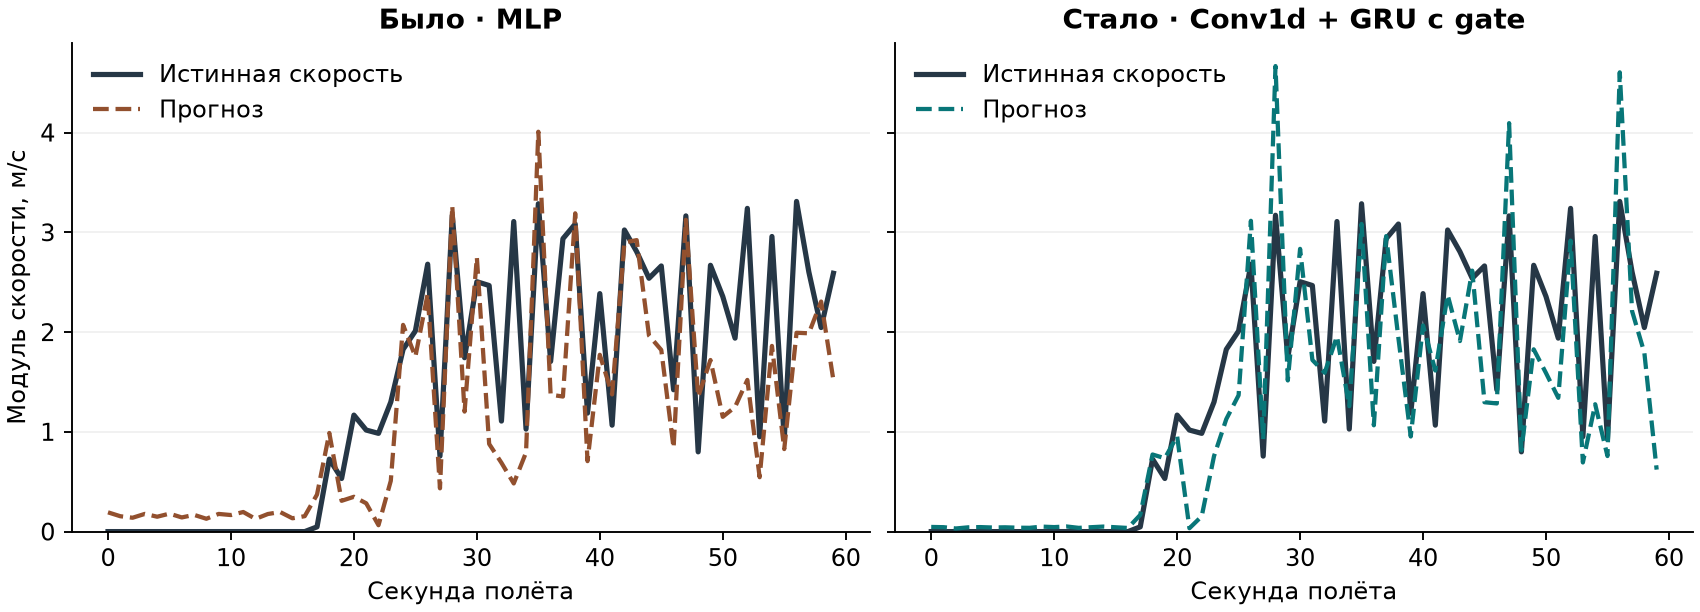
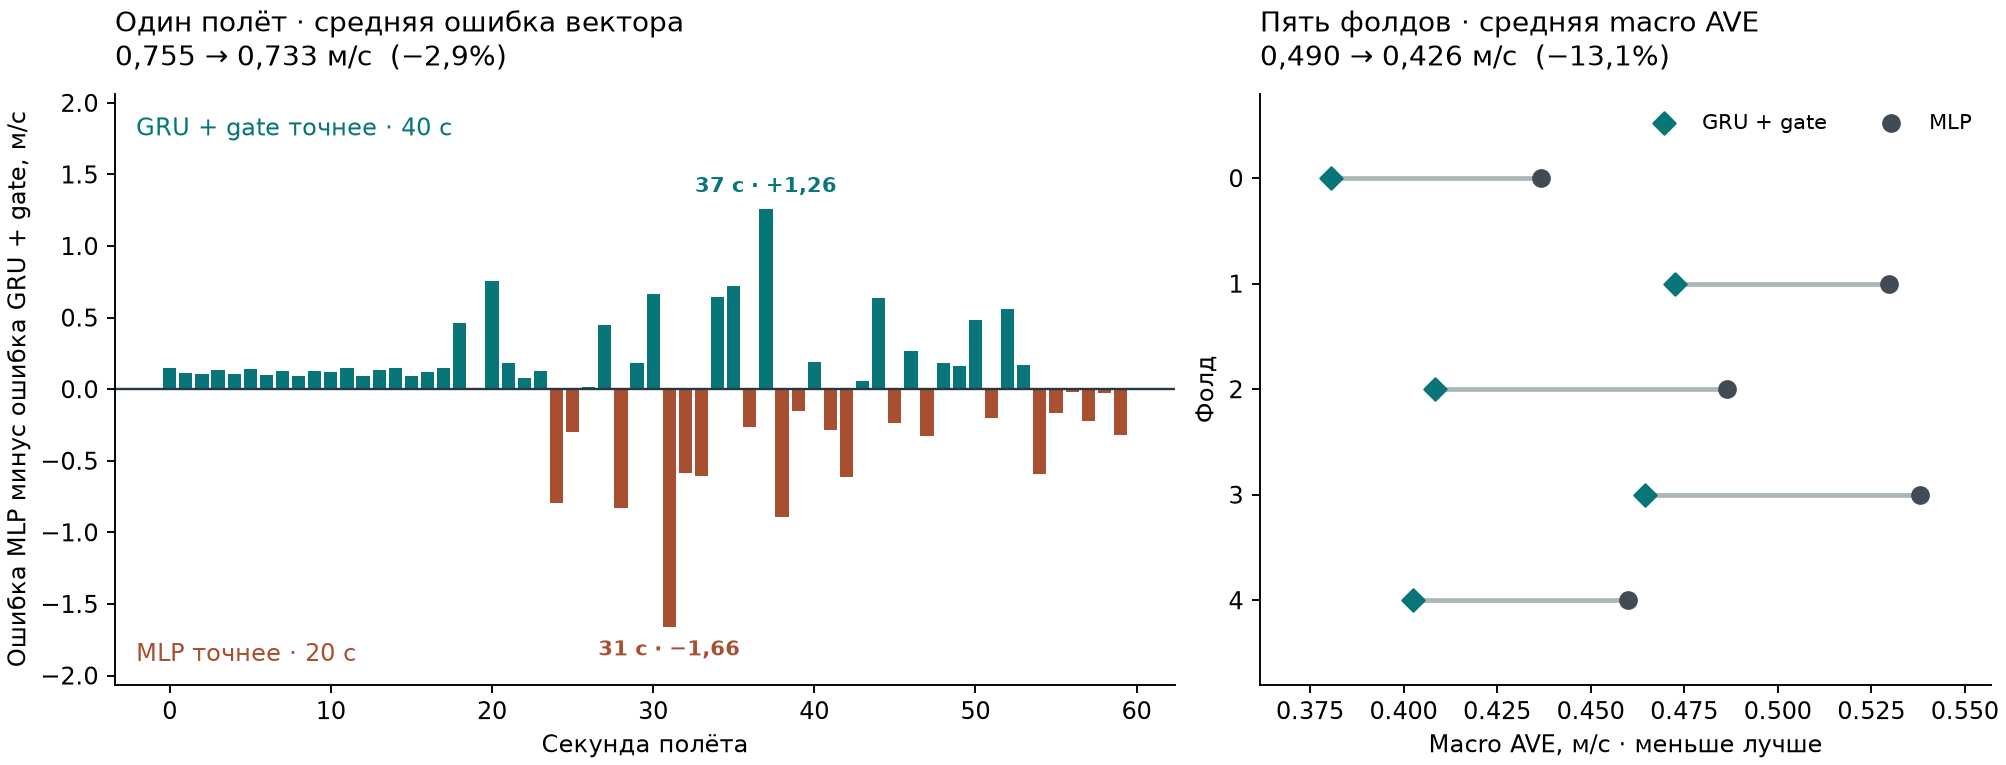
Compare per-second vector errors and paired validation folds

diff --git a/exps/hw2/flight_example.py b/exps/hw2/flight_example.py
@@ -83,19 +83,47 @@ def main():
     plot_window(example, [("MLP", forecasts["mlp_plain"][idx]),
                           ("GRU + gate", forecasts["temporal_gate"][idx])], target[idx])
 
-    fig, axes = plt.subplots(1, 2, figsize=(10, 3.6), sharex=True, sharey=True, layout="constrained")
-    for ax, name, title, color in zip(
-        axes, ("mlp_plain", "temporal_gate"), ("Было · MLP", "Стало · Conv1d + GRU с gate"), ("#92502e", "#087678")
-    ):
-        ax.plot(flight.win_idx, flight.target_speed, color="#263746", label="Истинная скорость", lw=2.2)
-        ax.plot(flight.win_idx, flight[f"{name}_speed"], color=color, label="Прогноз", lw=1.8, ls="--")
-        ax.set_title(title, fontweight="bold")
-        ax.set_xlabel("Секунда полёта")
-        ax.grid(axis="y", alpha=0.18)
+    gains = flight.mlp_plain_error - flight.temporal_gate_error
+    folds = pd.read_csv(OUT / "folds.csv")
+    cv = folds[folds.role.eq("generalist")].pivot(index="fold", columns="variant", values="ave")
+    old, new = cv["mlp_plain"], cv["temporal_gate"]
+
+    def summary(before, after):
+        change = 100 * (after - before) / before
+        return f"{before:.3f} → {after:.3f} м/с  ({change:+.1f}%)".replace(".", ",").replace("-", "−")
+
+    fig, (local, overall) = plt.subplots(1, 2, figsize=(11.8, 4.5), layout="constrained",
+                                         gridspec_kw={"width_ratios": [1.45, 1]})
+    teal, rust = "#087678", "#a94f31"
+    local.bar(flight.win_idx, gains, width=.82, color=np.where(gains >= 0, teal, rust))
+    local.axhline(0, color="#263746", lw=1)
+    limit = gains.abs().max() * 1.24
+    local.set(ylim=(-limit, limit), xlabel="Секунда полёта", ylabel="Ошибка MLP минус ошибка GRU + gate, м/с")
+    local.set_title("Один полёт · средняя ошибка вектора\n"
+                    + summary(flight.mlp_plain_error.mean(), flight.temporal_gate_error.mean()),
+                    loc="left", fontsize=12, pad=12)
+    for idx in [gains.idxmax(), gains.idxmin()]:
+        second, gain = flight.at[idx, "win_idx"], gains.at[idx]
+        label = f"{second} с · {gain:+.2f}".replace(".", ",").replace("-", "−")
+        local.annotate(label, (second, gain), xytext=(0, 5 if gain > 0 else -5),
+                       textcoords="offset points", ha="center", va="bottom" if gain > 0 else "top",
+                       color=teal if gain > 0 else rust, fontsize=9, weight="bold")
+    local.text(.02, .96, f"GRU + gate точнее · {(gains > 0).sum()} с", transform=local.transAxes,
+               va="top", color=teal, fontsize=10)
+    local.text(.02, .04, f"MLP точнее · {(gains < 0).sum()} с", transform=local.transAxes,
+               color=rust, fontsize=10)
+
+    overall.hlines(cv.index, new, old, color="#aab6b8", lw=2)
+    overall.scatter(new, cv.index, color=teal, marker="D", label="GRU + gate", s=44, zorder=3)
+    overall.scatter(old, cv.index, color="#414b56", label="MLP", s=48, zorder=3)
+    overall.set(yticks=cv.index, ylabel="Фолд", xlabel="Macro AVE, м/с · меньше лучше")
+    overall.invert_yaxis()
+    overall.margins(y=.20, x=.12)
+    overall.legend(loc="best", frameon=False, ncol=2, fontsize=9)
+    overall.set_title("Пять фолдов · средняя macro AVE\n" + summary(old.mean(), new.mean()),
+                      loc="left", fontsize=12, pad=12)
+    for ax in (local, overall):
         ax.spines[["top", "right"]].set_visible(False)
-        ax.legend(frameon=False, loc="upper left")
-    axes[0].set_ylabel("Модуль скорости, м/с")
-    axes[0].set_ylim(bottom=0)
     fig.savefig(OUT / "flight_before_after.png", dpi=170)
     plt.close(fig)
 

diff --git a/exps/hw2/README.md b/exps/hw2/README.md
@@ -103,11 +103,13 @@
 
 ### Один полёт до и после
 
-Для иллюстрации взяли полёт со средней позицией в списке, отсортированном по ошибке базового MLP. Из 289 траекторий дрона это 145-я, `drone_train_0224` из фолда 4. Все 60 секунд были отложены целиком для обеих моделей. Сплошная кривая показывает истинный модуль скорости. Пунктир показывает прогноз генералиста. Шкалы обеих панелей совпадают.
+Из 289 траекторий дрона выбрали 145-ю по ошибке исходного MLP — `drone_train_0224` из фолда 4. Все 60 секунд были отложены для обеих моделей. На левой панели из ошибки MLP вычли ошибку GRU с gate для каждой секунды. Обе ошибки рассчитаны по трём компонентам скорости. Выше нуля выигрывает новая модель, ниже — MLP.
 
-![Один и тот же отложенный полёт, прогноз MLP слева и финальной модели справа](results/flight_before_after.png)
+![Разница векторных ошибок на каждой секунде выбранного полёта и парное сравнение двух генералистов на всех пяти фолдах](results/flight_before_after.png)
 
-На отметке 31 с видна причина оценивать **вектор**. Истинная скорость по модулю равна 2,47 м/с. MLP оценил её в 0,88, финальная модель — в 1,72. По модулю вторая оценка ближе. При учёте направления ошибка, напротив, выросла с 1,72 до 3,38 м/с. На всём полёте новая модель выигрывает в 40 из 60 окон, а средняя векторная ошибка снижается с 0,755 до 0,733 м/с. [Данные обеих панелей](results/flight_example.csv)
+На отметке **37 с** векторная ошибка упала с **1,91 до 0,65 м/с**. На **31 с** произошёл самый большой проигрыш — ошибка выросла с **1,72 до 3,38 м/с**. На этой секунде новая модель лучше оценила модуль скорости, но промахнулась с направлением. В среднем по полёту разница составила всего **0,022 м/с (2,9%)**, хотя новая модель выиграла в 40 окнах из 60. [Значения по секундам](results/flight_example.csv)
+
+Справа показаны результаты на всех платформах. Каждая пара точек — macro AVE двух генералистов на одних и тех же отложенных траекториях одного фолда. Все пять пар показывают снижение ошибки. Средняя macro AVE снизилась с **0,49018 до 0,42575 м/с (13,1%)**. [Исходные значения по фолдам](results/folds.csv)
 
 Этот полёт иллюстрирует величину и направление ошибки. Чтобы оценить распространённость выигрыша, для каждой из 395 отложенных траекторий сравнили средние ошибки двух генералистов. Финальная архитектура выиграла на 43 из 44 автомобильных траекторий, 35 из 36 траекторий робособаки, 237 из 289 полётов и 17 из 26 траекторий человека. Счёт **332 из 395** показывает частоту улучшений. Основная метрика также учитывает их размер и даёт каждой платформе равный вес. [Подсчёт по платформам](results/trajectory_counts.csv)
 
